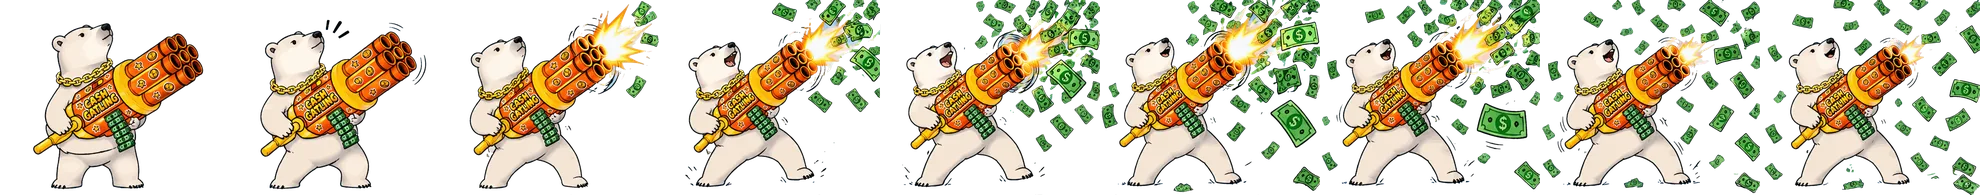
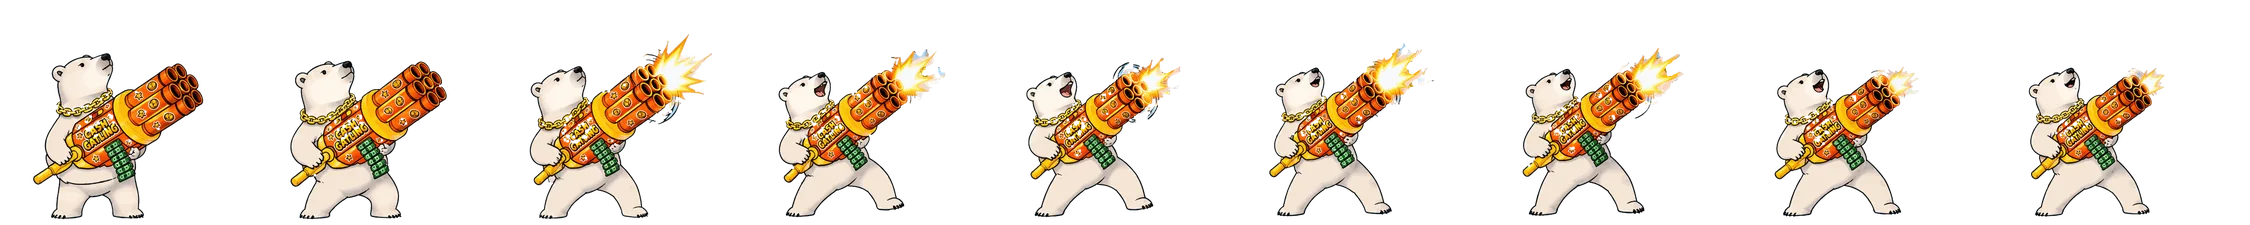
Cash-gatling bear: free-flying money in the sky, no box, full body bear
Claude-Session: https://claude.ai/code/session_01CeHmJgKZfF64tcsRYisCNi

diff --git a/assistant/assistant.js b/assistant/assistant.js
@@ -624,20 +624,64 @@
   function reachOf(n) { if (!n) return 0; var k = key(n); if (k[1] !== "-1") return BD.reach[n] || 0;
     var m = /^push(\d+)-(\d+)\.(\d+)$/.exec(n); if (!m) return 0; var K = BD.tw["push" + m[1] + "-" + m[2]], t = m[3] / (K + 1);
     return (BD.reach["push" + m[1]] || 0) * (1 - t) + (BD.reach["push" + m[2]] || 0) * t; }
-  /* the "cash gatling" bear: a separate cut-out animation (no background) that takes over the launcher for a couple of seconds */
-  var CASH = { ok: false, img: null, seq: [0, 1, 2, 3, 4, 5, 6, 7, 8, 7, 6, 5, 4, 3, 2, 1, 0], fw: 220, fh: 195, busy: false };
+  /* the "cash gatling" bear: a cut-out animation (no background box) that takes over the launcher for a few seconds.
+     The bear is drawn from the sprite sheet; the money is live particles on a full-screen layer, so it flies freely up into the sky. */
+  var CASH = { ok: false, img: null, seq: [0, 1, 2, 3, 4, 5, 6, 7, 8, 7, 6, 5, 4, 3, 2, 3, 4, 5, 6, 7, 8, 7, 6, 5, 4, 3, 2, 1, 0], fw: 250, fh: 225, k: .34, busy: false, bills: [], fx: null };
   setTimeout(function () { var im = new Image(); im.onload = function () { CASH.img = im; CASH.ok = true; }; im.src = BASE + "bear-cash.webp"; }, 3500);
+  function billSprite() {   // one bill drawn once, reused for every particle
+    var c = document.createElement("canvas"), w = 64, h = 32; c.width = w + 4; c.height = h + 4; var g = c.getContext("2d");
+    function rr(x, y, ww, hh, r) { g.beginPath(); g.moveTo(x + r, y); g.arcTo(x + ww, y, x + ww, y + hh, r); g.arcTo(x + ww, y + hh, x, y + hh, r); g.arcTo(x, y + hh, x, y, r); g.arcTo(x, y, x + ww, y, r); g.closePath(); }
+    rr(2, 2, w, h, 5); g.fillStyle = "#8fc27a"; g.fill(); g.lineWidth = 2.2; g.strokeStyle = "#1c3320"; g.stroke();
+    rr(7, 7, w - 10, h - 10, 3); g.lineWidth = 1.2; g.strokeStyle = "#4d8a4f"; g.stroke();
+    g.beginPath(); g.arc(2 + w / 2, 2 + h / 2, 8.5, 0, TAU); g.fillStyle = "#79b366"; g.fill(); g.lineWidth = 1.2; g.stroke();
+    g.fillStyle = "#1f4a2a"; g.font = "bold 13px sans-serif"; g.textAlign = "center"; g.textBaseline = "middle"; g.fillText("$", 2 + w / 2, 3 + h / 2);
+    return c;
+  }
+  function moneyLayer() {
+    if (CASH.fx) return CASH.fx;
+    var c = document.createElement("canvas"); c.className = "pa-money"; c.setAttribute("aria-hidden", "true"); document.body.appendChild(c);
+    CASH.fx = { c: c, g: c.getContext("2d"), spr: billSprite() }; return CASH.fx;
+  }
+  function sizeMoney(fx) { var d = Math.min(2, window.devicePixelRatio || 1); fx.d = d; fx.c.width = Math.round(innerWidth * d); fx.c.height = Math.round(innerHeight * d); fx.c.style.width = innerWidth + "px"; fx.c.style.height = innerHeight + "px"; }
   function playCash(cv) {
     var L = cv.closest(".pa-launch"); if (!L || CASH.busy || !CASH.ok || reduce) return false;
     CASH.busy = true;
-    var c2 = L.querySelector(".pa-cash");
+    var c2 = L.querySelector(".pa-cash"), fw = CASH.fw * CASH.k, fh = CASH.fh * CASH.k;
     if (!c2) { c2 = document.createElement("canvas"); c2.className = "pa-cash"; c2.width = CASH.fw; c2.height = CASH.fh; c2.setAttribute("aria-hidden", "true"); L.appendChild(c2); }
-    var g = c2.getContext("2d"), t0 = performance.now(), STEP = 125, total = CASH.seq.length * STEP;
-    L.classList.add("pa-cashing"); cv.style.visibility = "hidden";
+    c2.style.width = fw + "px"; c2.style.height = fh + "px"; c2.style.marginLeft = (-fw / 2) + "px";
+    var g = c2.getContext("2d"), fx = moneyLayer(); sizeMoney(fx);
+    var t0 = performance.now(), last = t0, STEP = 115, total = CASH.seq.length * STEP, acc = 0, FADE = 160;
+    L.classList.add("pa-cashing"); cv.style.transition = "opacity .16s"; cv.style.opacity = "0";
     (function frame(now) {
-      var el = now - t0;
-      if (el >= total || root.classList.contains("open")) { L.classList.remove("pa-cashing"); cv.style.visibility = ""; CASH.busy = false; g.clearRect(0, 0, c2.width, c2.height); return; }
-      var i = CASH.seq[Math.floor(el / STEP)]; g.clearRect(0, 0, c2.width, c2.height); g.drawImage(CASH.img, i * CASH.fw, 0, CASH.fw, CASH.fh, 0, 0, CASH.fw, CASH.fh);
+      var dt = Math.min(.05, (now - last) / 1000); last = now;
+      var el = now - t0, ending = el >= total || root.classList.contains("open");
+      var idx = Math.min(CASH.seq.length - 1, Math.floor(el / STEP)), fi = CASH.seq[idx];
+      g.clearRect(0, 0, c2.width, c2.height);
+      if (!ending) {
+        var al = Math.min(1, el / FADE, (total - el) / FADE); g.globalAlpha = Math.max(0, al);
+        g.drawImage(CASH.img, fi * CASH.fw, 0, CASH.fw, CASH.fh, 0, 0, CASH.fw, CASH.fh); g.globalAlpha = 1;
+        // the muzzle, on screen: bills spray out of it and fly up into the sky
+        if (fi >= 2) {
+          var r = c2.getBoundingClientRect(), mx = r.left + r.width * (168 / CASH.fw), my = r.top + r.height * (78 / CASH.fh);
+          acc += dt * (fi >= 3 ? 46 : 22);
+          while (acc >= 1) { acc -= 1;
+            var a = (-90 + (Math.random() * 78 - 30)) * Math.PI / 180, sp = 330 + Math.random() * 520;
+            CASH.bills.push({ x: mx + Math.random() * 6, y: my + Math.random() * 6, vx: Math.cos(a) * sp, vy: Math.sin(a) * sp, r: Math.random() * 6.28, vr: (Math.random() - .5) * 9, s: .22 + Math.random() * .2, t: 0, life: 2.2 + Math.random() * 1.6, ph: Math.random() * 6.28 });
+          }
+        }
+      } else { cv.style.opacity = "1"; L.classList.remove("pa-cashing"); }
+      // money physics + drawing (every bill is its own free particle: no box, no clipping)
+      var G = fx.g, d = fx.d; G.setTransform(1, 0, 0, 1, 0, 0); G.clearRect(0, 0, fx.c.width, fx.c.height);
+      for (var i = CASH.bills.length - 1; i >= 0; i--) {
+        var b = CASH.bills[i]; b.t += dt; if (b.t > b.life || b.y > innerHeight + 60) { CASH.bills.splice(i, 1); continue; }
+        b.vy += 560 * dt; b.vx *= (1 - .55 * dt); if (b.vy > 0) b.vy *= (1 - 1.1 * dt);   // gravity, then they flutter down slowly
+        b.x += (b.vx + Math.sin(b.t * 4 + b.ph) * 22) * dt; b.y += b.vy * dt; b.r += b.vr * dt;
+        var fade = Math.min(1, (b.life - b.t) / .5, b.t / .06), sc = b.s * (.8 + .2 * Math.abs(Math.cos(b.r * .7)));
+        G.globalAlpha = Math.max(0, fade); G.setTransform(d, 0, 0, d, b.x * d, b.y * d); G.rotate(b.r); G.scale(sc, sc * (.55 + .45 * Math.abs(Math.cos(b.r * .5 + b.ph))));
+        G.drawImage(fx.spr, -fx.spr.width / 2, -fx.spr.height / 2);
+      }
+      G.globalAlpha = 1;
+      if (ending && !CASH.bills.length) { CASH.busy = false; G.setTransform(1, 0, 0, 1, 0, 0); G.clearRect(0, 0, fx.c.width, fx.c.height); return; }
       requestAnimationFrame(frame);
     })(t0);
     return true;

diff --git a/index.html b/index.html
@@ -307,9 +307,9 @@ html.iu-lite .glass,html.iu-lite .stats,html.iu-lite .lcard,html.iu-lite .resour
 <script src="learn.js?v=20261108b" defer></script>
 <script src="hero.js?v=20261109e" defer></script>
 <script src="liquid.js?v=20261108e" defer></script>
-<script src="assistant/answers.js?v=20261115k" defer></script>
-<script src="assistant/answers2.js?v=20261115k" defer></script>
-<script src="assistant/assistant.js?v=20261115k" defer></script>
+<script src="assistant/answers.js?v=20261115n" defer></script>
+<script src="assistant/answers2.js?v=20261115n" defer></script>
+<script src="assistant/assistant.js?v=20261115n" defer></script>
 <!-- Cloudflare Web Analytics --><script type='module' src='https://static.cloudflareinsights.com/beacon.min.js' data-cf-beacon='{"token": "4430f3cf35574ab6ad9424fcfbec8008"}'></script><!-- End Cloudflare Web Analytics -->
 </body>
 </html>

diff --git a/assistant/assistant.css b/assistant/assistant.css
@@ -168,6 +168,6 @@ html.iu-lite .pa-launch:not([class*="act-"]) .pa-peng{animation:none}
 .pa-launch .pa-mv{filter:none}
 /* the bear pushes the social button: it shows Facebook and shakes */
 
-.pa-cash{position:absolute;left:50%;bottom:-2px;width:112px;height:99px;margin-left:-56px;pointer-events:none;display:none;z-index:2}
+.pa-cash{position:absolute;left:50%;bottom:-2px;pointer-events:none;display:none;z-index:2}
 .pa-launch.pa-cashing .pa-cash{display:block}
-.pa-launch.pa-cashing::before{opacity:.6}
+.pa-money{position:fixed;left:0;top:0;pointer-events:none;z-index:9990}
